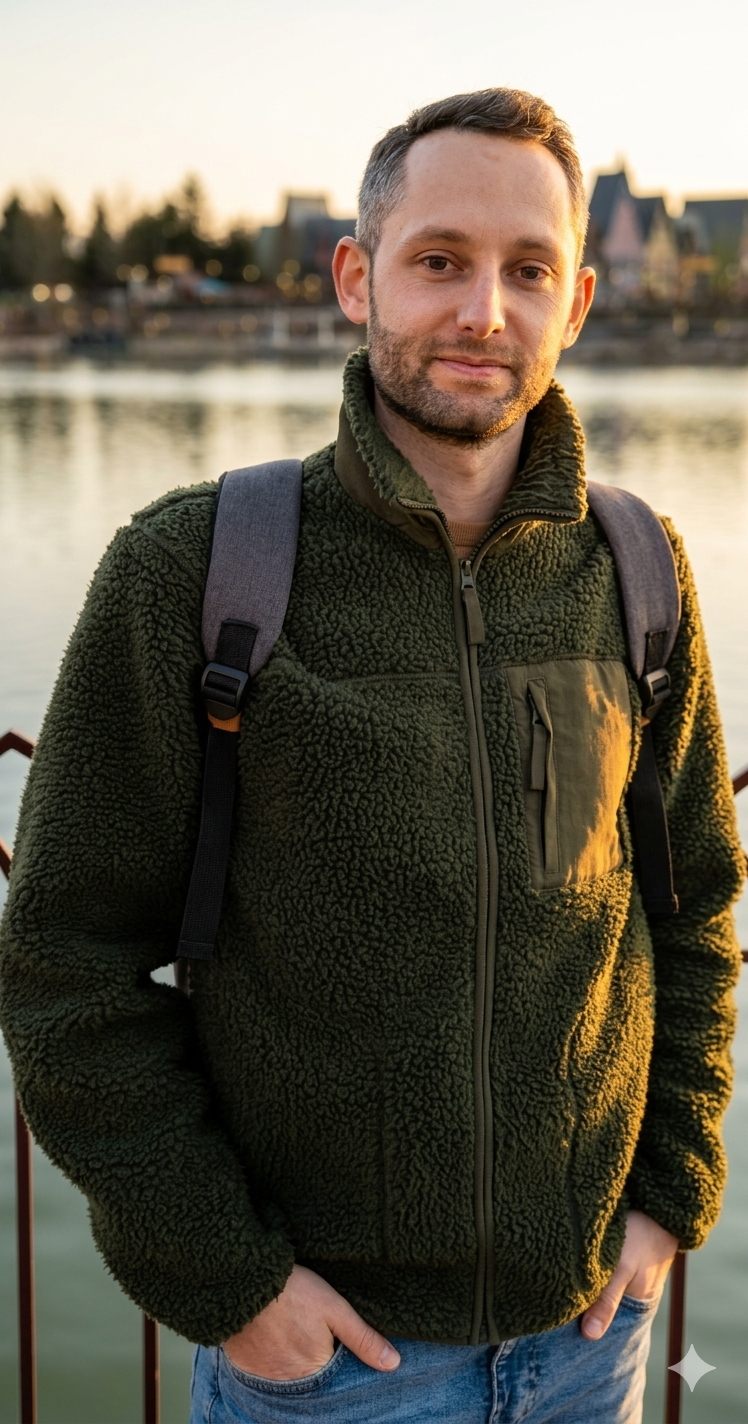
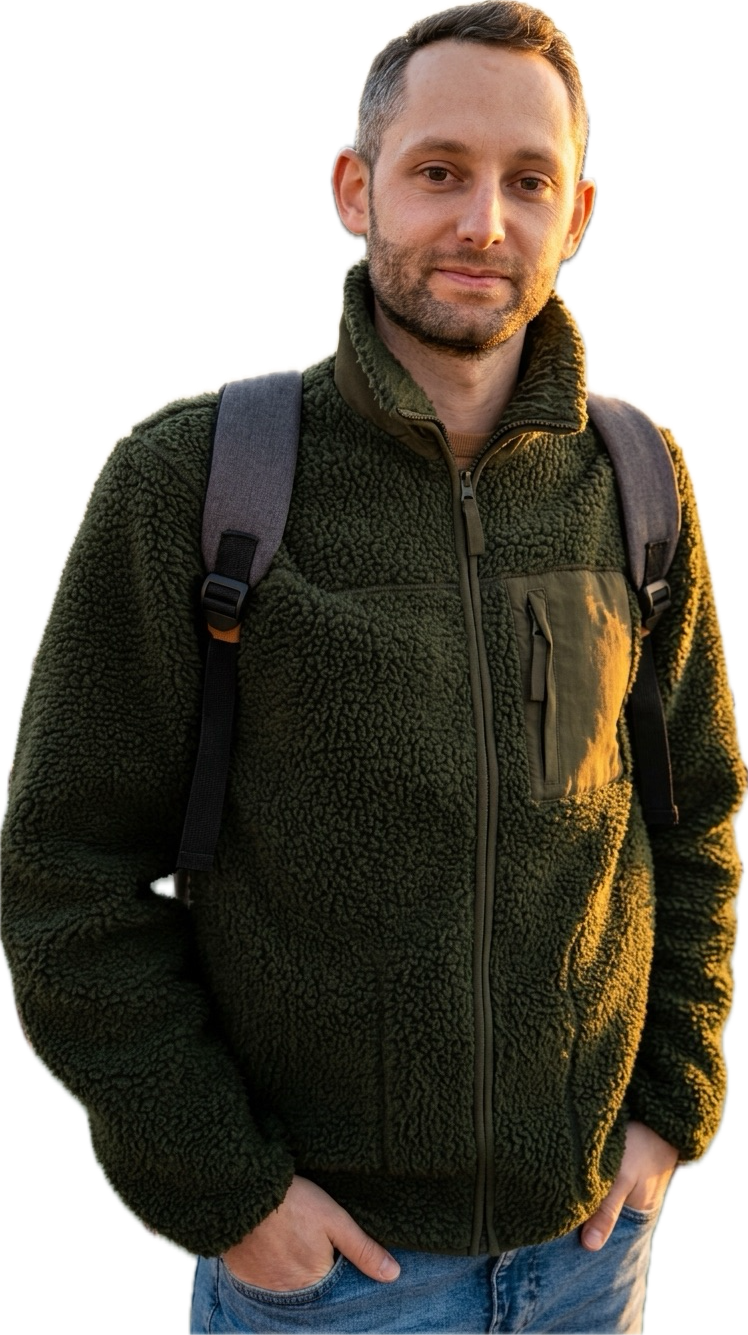
Hero : titre géant derrière photo détourée

diff --git a/src/styles/global.css b/src/styles/global.css
@@ -2,6 +2,7 @@
 
 @theme {
   --color-vert: #009B4D;
+  --color-vert-fonce: #006B35;
   --color-jaune: #FFCC00;
   --color-ivoire: #FAF5E9;
 }